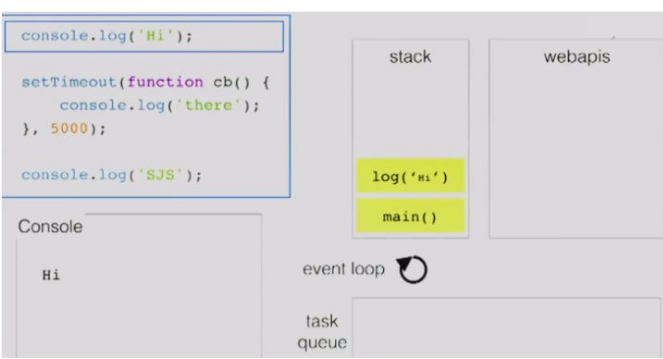
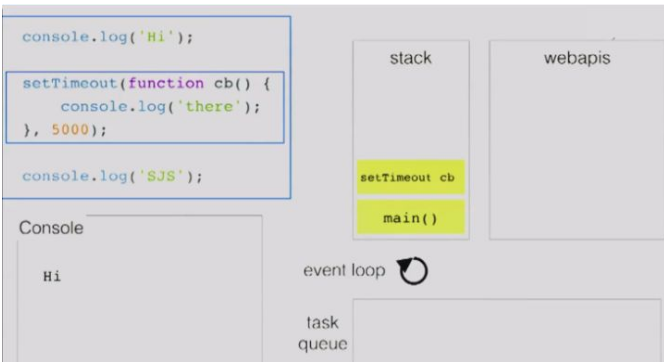
Site updated: 2018-05-03 17:28:21

diff --git a/2018/05/03/js事件机制-md/index.html b/2018/05/03/js事件机制-md/index.html
@@ -117,7 +117,7 @@
 <meta property="og:image" content="https://wutongshu1993.github.io/images/事件机制16.png">
 <meta property="og:image" content="https://wutongshu1993.github.io/images/事件机制17.png">
 <meta property="og:image" content="https://wutongshu1993.github.io/images/事件机制18.png">
-<meta property="og:updated_time" content="2018-05-03T09:12:20.061Z">
+<meta property="og:updated_time" content="2018-05-03T09:24:42.203Z">
 <meta name="twitter:card" content="summary">
 <meta name="twitter:title" content="js事件机制">
 <meta name="twitter:description" content="感觉最近过的浑浑噩噩的，应该静下心来学习一些知识了，不管以后是做前端还是后端，静下心来学习总归是重要的。用胡适先生的话来鼓励自己：管什么真理无穷，进一寸有进一寸的欢喜。
@@ -410,26 +410,11 @@
 <p>在上图中，调用栈中遇到DOM操作、ajax请求以及setTimeout等WebAPIs的时候就会交给浏览器内核的其他模块进行处理，webkit内核在Javasctipt执行引擎之外，有一个重要的模块是webcore模块。对于图中WebAPIs提到的三种API，webcore分别提供了DOM Binding、network、timer模块来处理底层实现。等到这些模块处理完这些操作的时候将回调函数放入任务队列中，之后等栈中的task执行完之后再去执行任务队列之中的回调函数。</p>
 <h2 id="setTimeOut与循环机制"><a href="#setTimeOut与循环机制" class="headerlink" title="setTimeOut与循环机制"></a>setTimeOut与循环机制</h2><ol>
 <li>首先将main函数的执行上下文入栈<br><img src="/images/事件机制2.png" alt="image">  </li>
-<li>代码接着执行，遇到console.log(‘Hi’),此时log(‘Hi’)入栈，console.log方法只是一个webkit内核支持的普通的方法，所以log(‘Hi’)方法立即被执行。此时输出’Hi’。</li>
-</ol>
-<p><img src="/images/事件机制3.png" alt="image">  </p>
-<ol>
-<li>当遇到setTimeout的时候，执行引擎将其添加到栈中。</li>
-</ol>
-<p><img src="/images/事件机制4.png" alt="image">  </p>
-<ol>
-<li>调用栈发现setTimeout是之前提到的WebAPIs中的API，因此将其出栈之后将延时执行的函数交给浏览器的timer模块进行处理。</li>
-</ol>
-<p><img src="/images/事件机制5.png" alt="image">  </p>
-<ol>
-<li>timer模块去处理延时执行的函数，此时执行引擎接着执行将log(‘SJS’)添加到栈中，此时输出’SJS’</li>
-</ol>
-<p><img src="/images/事件机制6.png" alt="image">  </p>
-<ol>
-<li>当timer模块中延时方法规定的时间到了之后就将其放入到任务队列之中，此时调用栈中的task已经全部执行完毕。</li>
-</ol>
-<p><img src="/images/事件机制7.png" alt="image">  </p>
-<ol>
+<li>代码接着执行，遇到console.log(‘Hi’),此时log(‘Hi’)入栈，console.log方法只是一个webkit内核支持的普通的方法，所以log(‘Hi’)方法立即被执行。此时输出’Hi’。<br><img src="/images/事件机制3.png" alt="image">  </li>
+<li>当遇到setTimeout的时候，执行引擎将其添加到栈中。<br><img src="/images/事件机制4.png" alt="image">  </li>
+<li>调用栈发现setTimeout是之前提到的WebAPIs中的API，因此将其出栈之后将延时执行的函数交给浏览器的timer模块进行处理。<br><img src="/images/事件机制5.png" alt="image">  </li>
+<li>timer模块去处理延时执行的函数，此时执行引擎接着执行将log(‘SJS’)添加到栈中，此时输出’SJS’<br><img src="/images/事件机制6.png" alt="image">  </li>
+<li>当timer模块中延时方法规定的时间到了之后就将其放入到任务队列之中，此时调用栈中的task已经全部执行完毕。<br><img src="/images/事件机制7.png" alt="image">  </li>
 <li>调用栈中的task执行完毕之后，执行引擎会接着看执行任务队列中是否有需要执行的回调函数。这里的cb函数被执行引擎添加到调用栈中，接着执行里面的代码，输出’there’。等到执行结束之后再出栈。</li>
 </ol>
 <p><img src="/images/事件机制8.png" alt="image"><br><img src="/images/事件机制9.png" alt="image">  </p>
@@ -453,34 +438,14 @@
 </ol>
 <p>代码段的解释如下：</p>
 <ol>
-<li>script任务源先执行，全局上下文入栈。</li>
+<li>script任务源先执行，全局上下文入栈。<br><img src="/images/事件机制10.png" alt="image">  </li>
+<li>script任务源的代码在执行时遇到setTimeout,作为一个macro-task，将其回调函数放入自己的队列之中。<br><img src="/images/事件机制11.png" alt="image"></li>
+<li>script任务源的代码在执行时遇到Promise实例。Promise构造函数中的第一个参数是在当前任务直接执行不会被放入队列之中，因此此时输出 1 。<br><img src="/images/事件机制12.png" alt="image"><br>4.在for循环里面遇到resolve函数，函数入栈执行之后出栈，此时Promise的状态变成Fulfilled。代码接着执行遇到console.log(2),输出2。<br><img src="/images/事件机制13.png" alt="image"></li>
+<li>接着执行，代码遇到then方法，其回调函数作为micro-task入栈，进入Promise的任务队列之中。<br><img src="/images/事件机制14.png" alt="image">  </li>
+<li>代码接着执行，此时遇到console.log(3),输出3。<br><img src="/images/事件机制15.png" alt="image">  </li>
+<li>输出3之后第一个宏任务script的代码执行完毕，这时候开始开始执行所有在队列之中的micro-task。then的回调函数入栈执行完毕之后出栈，这时候输出5<br><img src="/images/事件机制16.png" alt="image"><br><img src="/images/事件机制17.png" alt="image">  </li>
+<li>这时候所有的micro-task执行完毕，第一轮循环结束。第二轮循环从setTimeout的任务队列开始，setTimeout的回调函数入栈执行完毕之后出栈，此时输出4。<br><img src="/images/事件机制18.png" alt="image">  )</li>
 </ol>
-<p><img src="/images/事件机制10.png" alt="image">  </p>
-<ol>
-<li>script任务源的代码在执行时遇到setTimeout,作为一个macro-task，将其回调函数放入自己的队列之中。</li>
-</ol>
-<p><img src="/images/事件机制11.png" alt="image"></p>
-<ol>
-<li>script任务源的代码在执行时遇到Promise实例。Promise构造函数中的第一个参数是在当前任务直接执行不会被放入队列之中，因此此时输出 1 。</li>
-</ol>
-<p><img src="/images/事件机制12.png" alt="image"><br>4.在for循环里面遇到resolve函数，函数入栈执行之后出栈，此时Promise的状态变成Fulfilled。代码接着执行遇到console.log(2),输出2。</p>
-<p><img src="/images/事件机制13.png" alt="image"></p>
-<ol>
-<li>接着执行，代码遇到then方法，其回调函数作为micro-task入栈，进入Promise的任务队列之中。</li>
-</ol>
-<p><img src="/images/事件机制14.png" alt="image">  </p>
-<ol>
-<li>代码接着执行，此时遇到console.log(3),输出3。</li>
-</ol>
-<p><img src="/images/事件机制15.png" alt="image">  </p>
-<ol>
-<li>输出3之后第一个宏任务script的代码执行完毕，这时候开始开始执行所有在队列之中的micro-task。then的回调函数入栈执行完毕之后出栈，这时候输出5</li>
-</ol>
-<p><img src="/images/事件机制16.png" alt="image"><br><img src="/images/事件机制17.png" alt="image">  </p>
-<ol>
-<li>这时候所有的micro-task执行完毕，第一轮循环结束。第二轮循环从setTimeout的任务队列开始，setTimeout的回调函数入栈执行完毕之后出栈，此时输出4。</li>
-</ol>
-<p><img src="/images/事件机制18.png" alt="image">  )</p>
 <p>终极例子<br><figure class="highlight plain"><table><tr><td class="gutter"><pre><div class="line">1</div><div class="line">2</div><div class="line">3</div><div class="line">4</div><div class="line">5</div><div class="line">6</div><div class="line">7</div><div class="line">8</div><div class="line">9</div><div class="line">10</div><div class="line">11</div><div class="line">12</div><div class="line">13</div><div class="line">14</div><div class="line">15</div><div class="line">16</div><div class="line">17</div><div class="line">18</div><div class="line">19</div><div class="line">20</div><div class="line">21</div><div class="line">22</div><div class="line">23</div><div class="line">24</div><div class="line">25</div><div class="line">26</div><div class="line">27</div><div class="line">28</div><div class="line">29</div><div class="line">30</div><div class="line">31</div><div class="line">32</div><div class="line">33</div><div class="line">34</div><div class="line">35</div><div class="line">36</div><div class="line">37</div><div class="line">38</div><div class="line">39</div><div class="line">40</div><div class="line">41</div><div class="line">42</div><div class="line">43</div><div class="line">44</div><div class="line">45</div><div class="line">46</div><div class="line">47</div><div class="line">48</div><div class="line">49</div><div class="line">50</div><div class="line">51</div><div class="line">52</div><div class="line">53</div><div class="line">54</div><div class="line">55</div><div class="line">56</div><div class="line">57</div><div class="line">58</div><div class="line">59</div><div class="line">60</div><div class="line">61</div><div class="line">62</div></pre></td><td class="code"><pre><div class="line">console.log(&apos;golb1&apos;);</div><div class="line">setImmediate(function() &#123;</div><div class="line">    console.log(&apos;immediate1&apos;);</div><div class="line">    process.nextTick(function() &#123;</div><div class="line">        console.log(&apos;immediate1_nextTick&apos;);</div><div class="line">    &#125;)</div><div class="line">    new Promise(function(resolve) &#123;</div><div class="line">        console.log(&apos;immediate1_promise&apos;);</div><div class="line">        resolve();</div><div class="line">    &#125;).then(function() &#123;</div><div class="line">        console.log(&apos;immediate1_then&apos;)</div><div class="line">    &#125;)</div><div class="line">&#125;)</div><div class="line">setTimeout(function() &#123;</div><div class="line">    console.log(&apos;timeout1&apos;);</div><div class="line">    process.nextTick(function() &#123;</div><div class="line">        console.log(&apos;timeout1_nextTick&apos;);</div><div class="line">    &#125;)</div><div class="line">    new Promise(function(resolve) &#123;</div><div class="line">        console.log(&apos;timeout1_promise&apos;);</div><div class="line">        resolve();</div><div class="line">    &#125;).then(function() &#123;</div><div class="line">        console.log(&apos;timeout1_then&apos;)</div><div class="line">    &#125;)</div><div class="line">    setTimeout(function() &#123;</div><div class="line">        console.log(&apos;timeout1_timeout1&apos;);</div><div class="line">        process.nextTick(function() &#123;</div><div class="line">            console.log(&apos;timeout1_timeout1_nextTick&apos;);</div><div class="line">        &#125;)</div><div class="line">        setImmediate(function() &#123;</div><div class="line">            console.log(&apos;timeout1_setImmediate1&apos;);</div><div class="line">        &#125;)</div><div class="line">    &#125;);</div><div class="line">&#125;)</div><div class="line">new Promise(function(resolve) &#123;</div><div class="line">    console.log(&apos;glob1_promise&apos;);</div><div class="line">    resolve();</div><div class="line">&#125;).then(function() &#123;</div><div class="line">    console.log(&apos;glob1_then&apos;)</div><div class="line">&#125;)</div><div class="line">process.nextTick(function() &#123;</div><div class="line">    console.log(&apos;glob1_nextTick&apos;);</div><div class="line">&#125;)</div><div class="line"></div><div class="line"></div><div class="line"></div><div class="line"></div><div class="line">golb1</div><div class="line">glob1_promise</div><div class="line">glob1_nextTick</div><div class="line">glob1_then</div><div class="line">timeout1</div><div class="line">timeout1_promise</div><div class="line">timeout1_nextTick</div><div class="line">timeout1_then</div><div class="line">immediate1</div><div class="line">immediate1_promise</div><div class="line">immediate1_nextTick</div><div class="line">immediate1_then</div><div class="line">timeout1_timeout1</div><div class="line">timeout1_timeout1_nextTick</div><div class="line">timeout1_setImmediate1</div></pre></td></tr></table></figure></p>
 <p>总结：</p>
 <ol>

diff --git a/css/main.css b/css/main.css
@@ -1698,7 +1698,7 @@ pre .javascript .function {
   width: 4px;
   height: 4px;
   border-radius: 50%;
-  background: #ff0870;
+  background: #05ff0b;
 }
 .links-of-blogroll {
   font-size: 13px;
